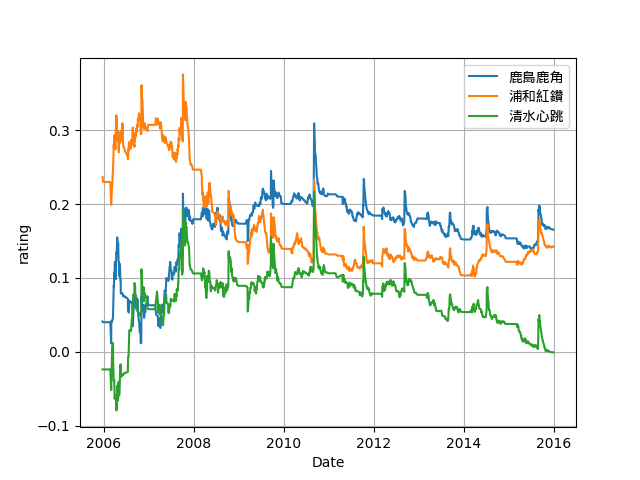
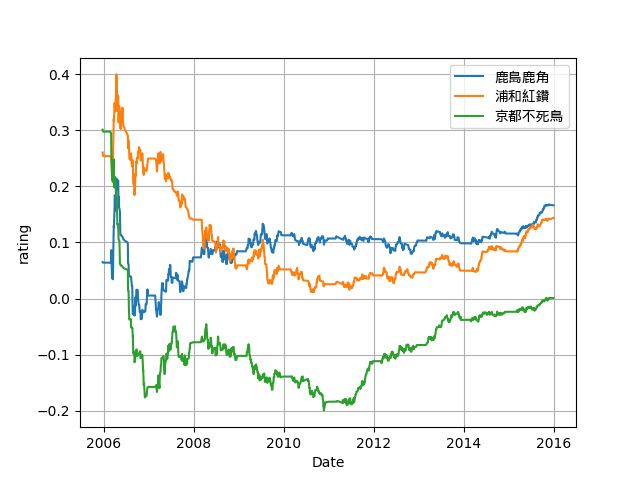
Add --baseline option to the code and update README.md

diff --git a/jleague_rating.py b/jleague_rating.py
@@ -80,6 +80,13 @@ def run():
 def main():
     if len(sys.argv) > 1:
         teams = sys.argv[1:]
+        try:
+            p = teams.index("--baseline")
+        except ValueError:
+            baseline = ""
+        else:
+            baseline = teams[p+1]
+            teams = teams[0:p] + teams[p+2:]
     else:
         teams = []
 
@@ -90,7 +97,7 @@ def main():
         for (today,br) in run():
             if ignore_first <= 0:
                 x.append(convert_date(today))
-                y.append([br[_] for _ in teams])
+                y.append([br[_] - br[baseline] for _ in teams])
             else:
                 ignore_first -= 1
             

diff --git a/README.md b/README.md
@@ -210,14 +210,17 @@ As the code implements an online algorithm, one can plot the ratings of teams ag
 (The first 100 data points are not plotted)
 
 ```shell
-> python3 jleague_rating.py 鹿島鹿角 浦和紅鑽 清水心跳
+> python3 jleague_rating.py 鹿島鹿角 浦和紅鑽 京都不死鳥 --baseline 清水心跳
 ```
 
 ![Figure_1.png](Figure_1.png?raw=true "Figure 1")
 
+Because only relative strength (i.e., <img alt="$r_i - r_j$" src="svgs/ee16fa4b829c75efab1d384550fc8f55.png" align="middle" width="46.501125pt" height="19.178279999999994pt"/>) is meaningful for the ratings, you can use `--baseline` flag to specify a team as the baseline of the graph.
+If `--baseline` is not specified, the dummy player will be used.
+
 # Data
 
-The data is stored in `japan_soccer.csv`. It consists of all Japan League football matches from 2005 Jan 1 to 2015 Dec 31. The data was collected from various sources by me.
+The data is stored in `japan_soccer.csv`, which consists of all Japan League football matches from 2005 Jan 1 to 2015 Dec 31. 
 
 The meaning of the field:
 

diff --git a/INPUT.md b/INPUT.md
@@ -212,14 +212,17 @@ As the code implements an online algorithm, one can plot the ratings of teams ag
 (The first 100 data points are not plotted)
 
 ```shell
-> python3 jleague_rating.py 鹿島鹿角 浦和紅鑽 清水心跳
+> python3 jleague_rating.py 鹿島鹿角 浦和紅鑽 京都不死鳥 --baseline 清水心跳
 ```
 
 ![Figure_1.png](Figure_1.png?raw=true "Figure 1")
 
+Because only relative strength (i.e., $r_i - r_j$) is meaningful for the ratings, you can use `--baseline` flag to specify a team as the baseline of the graph.
+If `--baseline` is not specified, the dummy player will be used.
+
 # Data
 
-The data is stored in `japan_soccer.csv`. It consists of all Japan League football matches from 2005 Jan 1 to 2015 Dec 31. The data was collected from various sources by me.
+The data is stored in `japan_soccer.csv`, which consists of all Japan League football matches from 2005 Jan 1 to 2015 Dec 31. 
 
 The meaning of the field:
 
